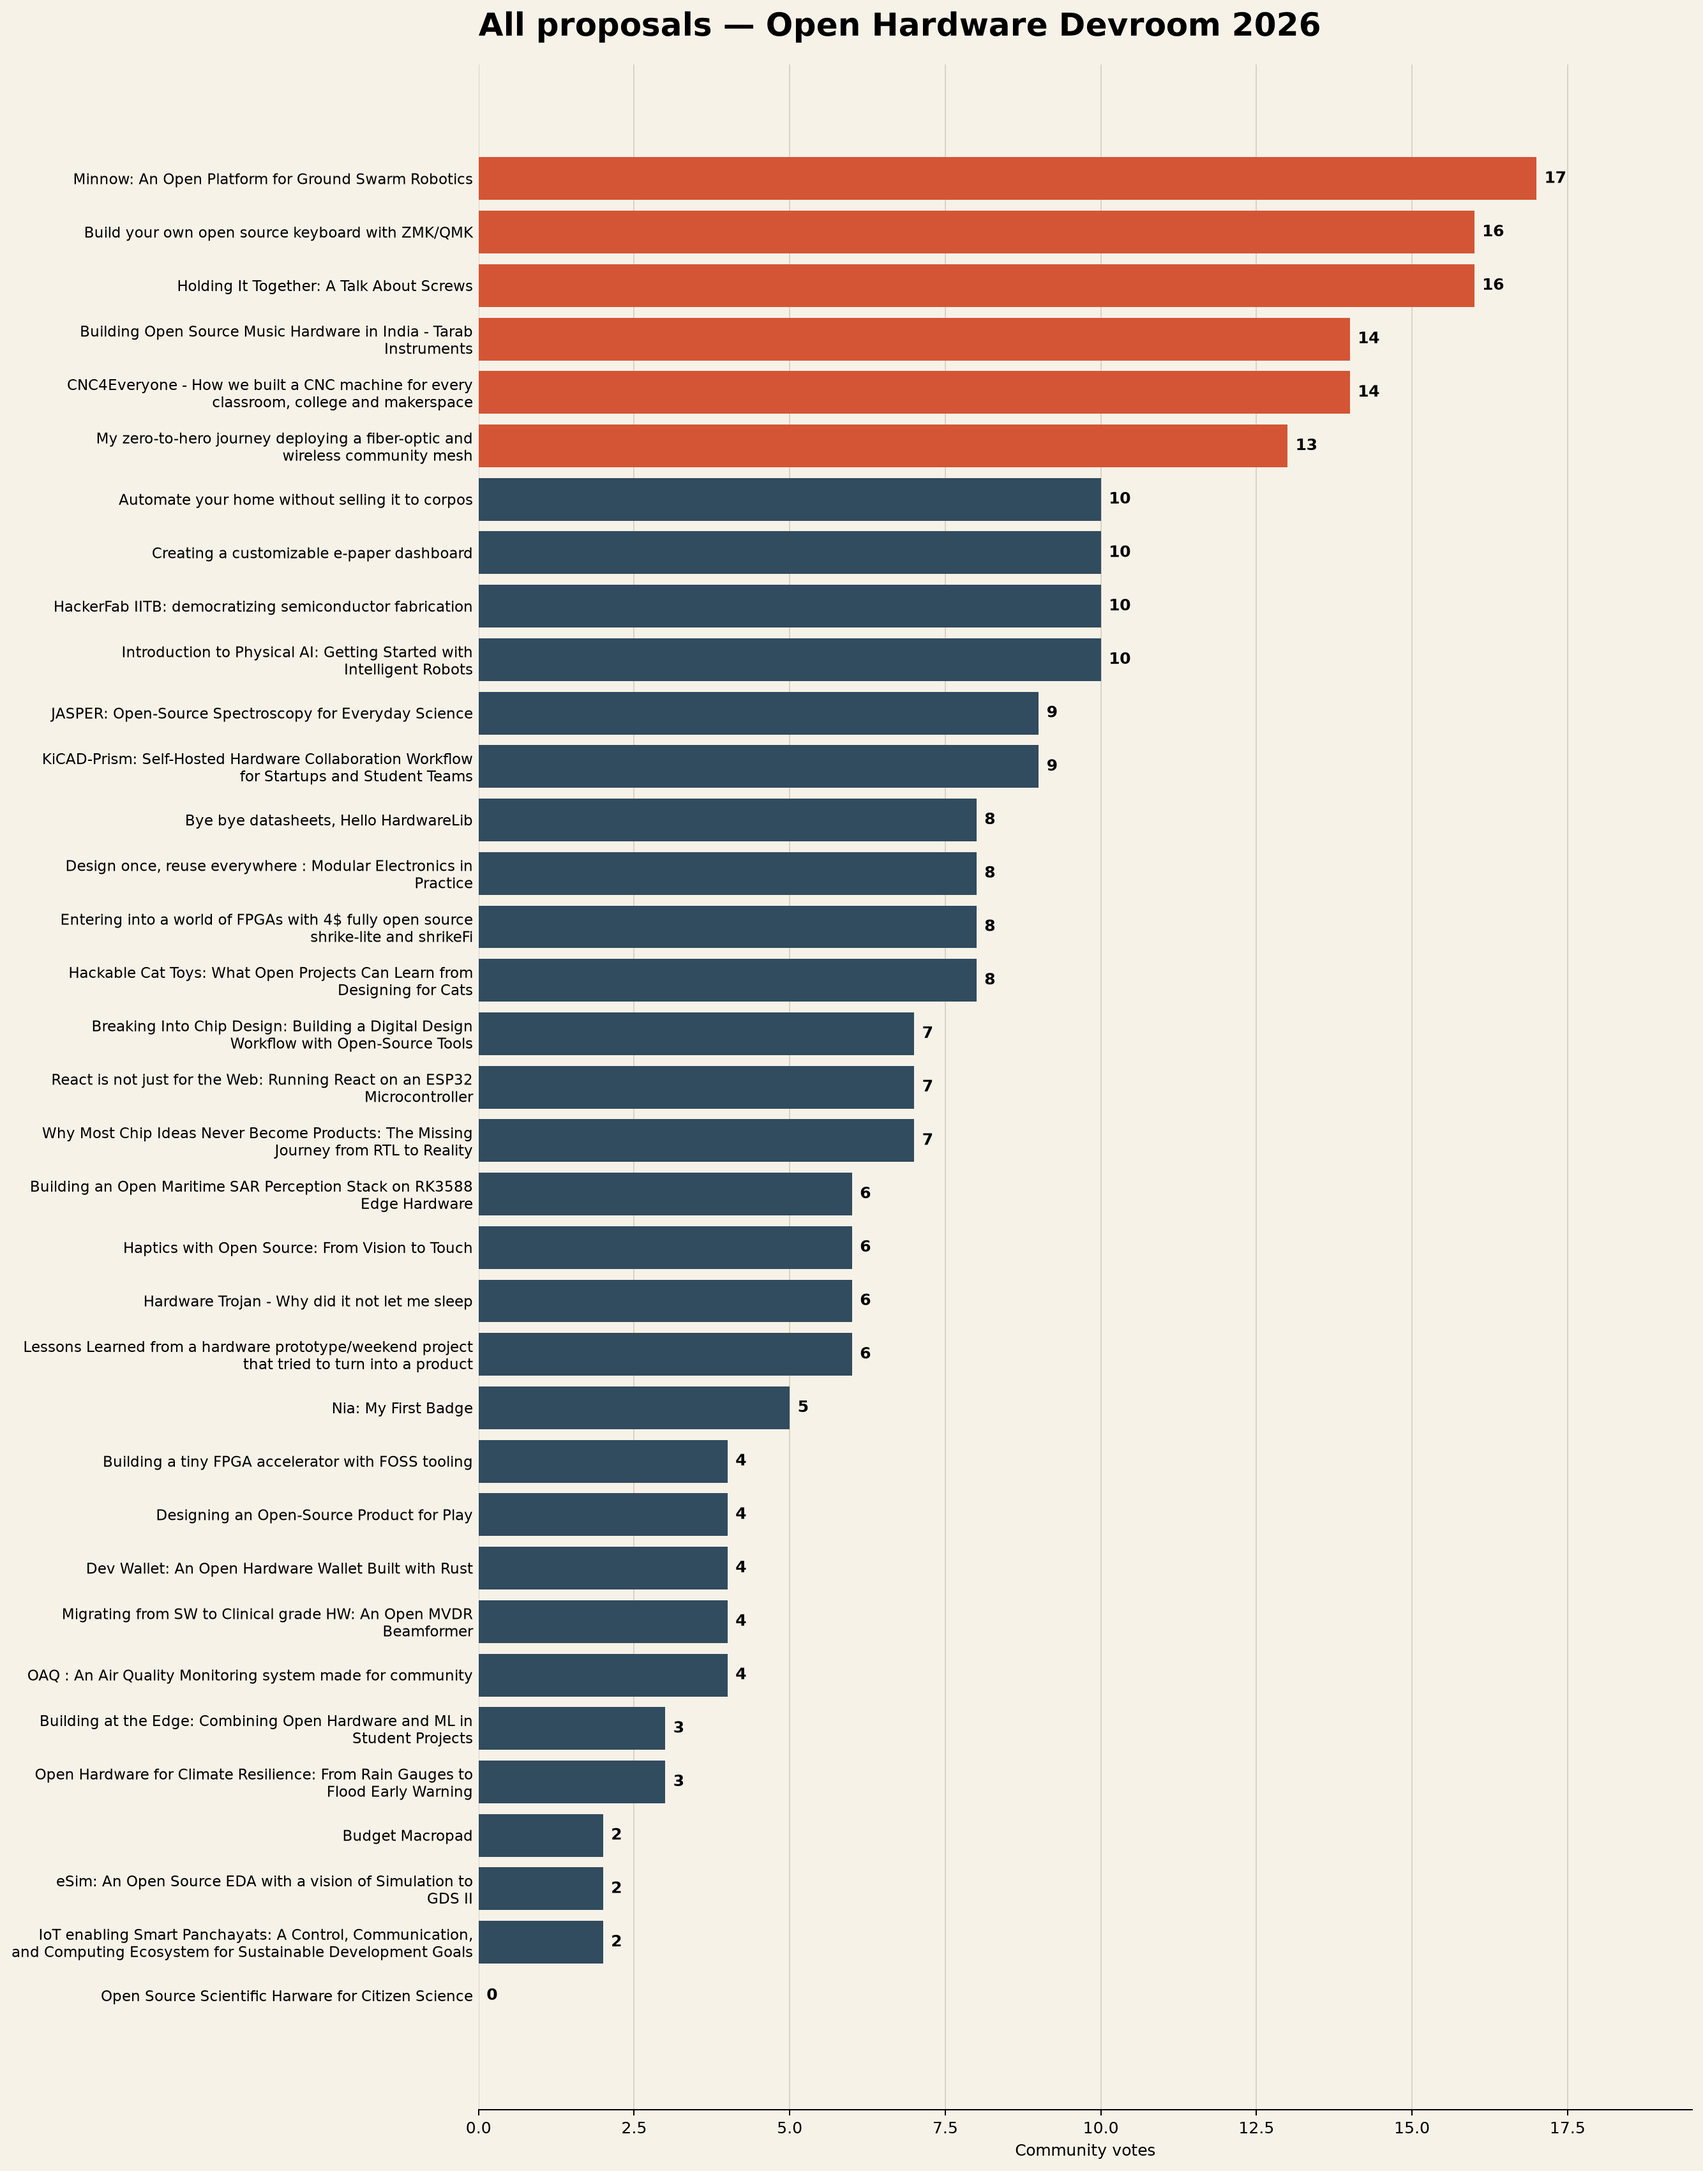
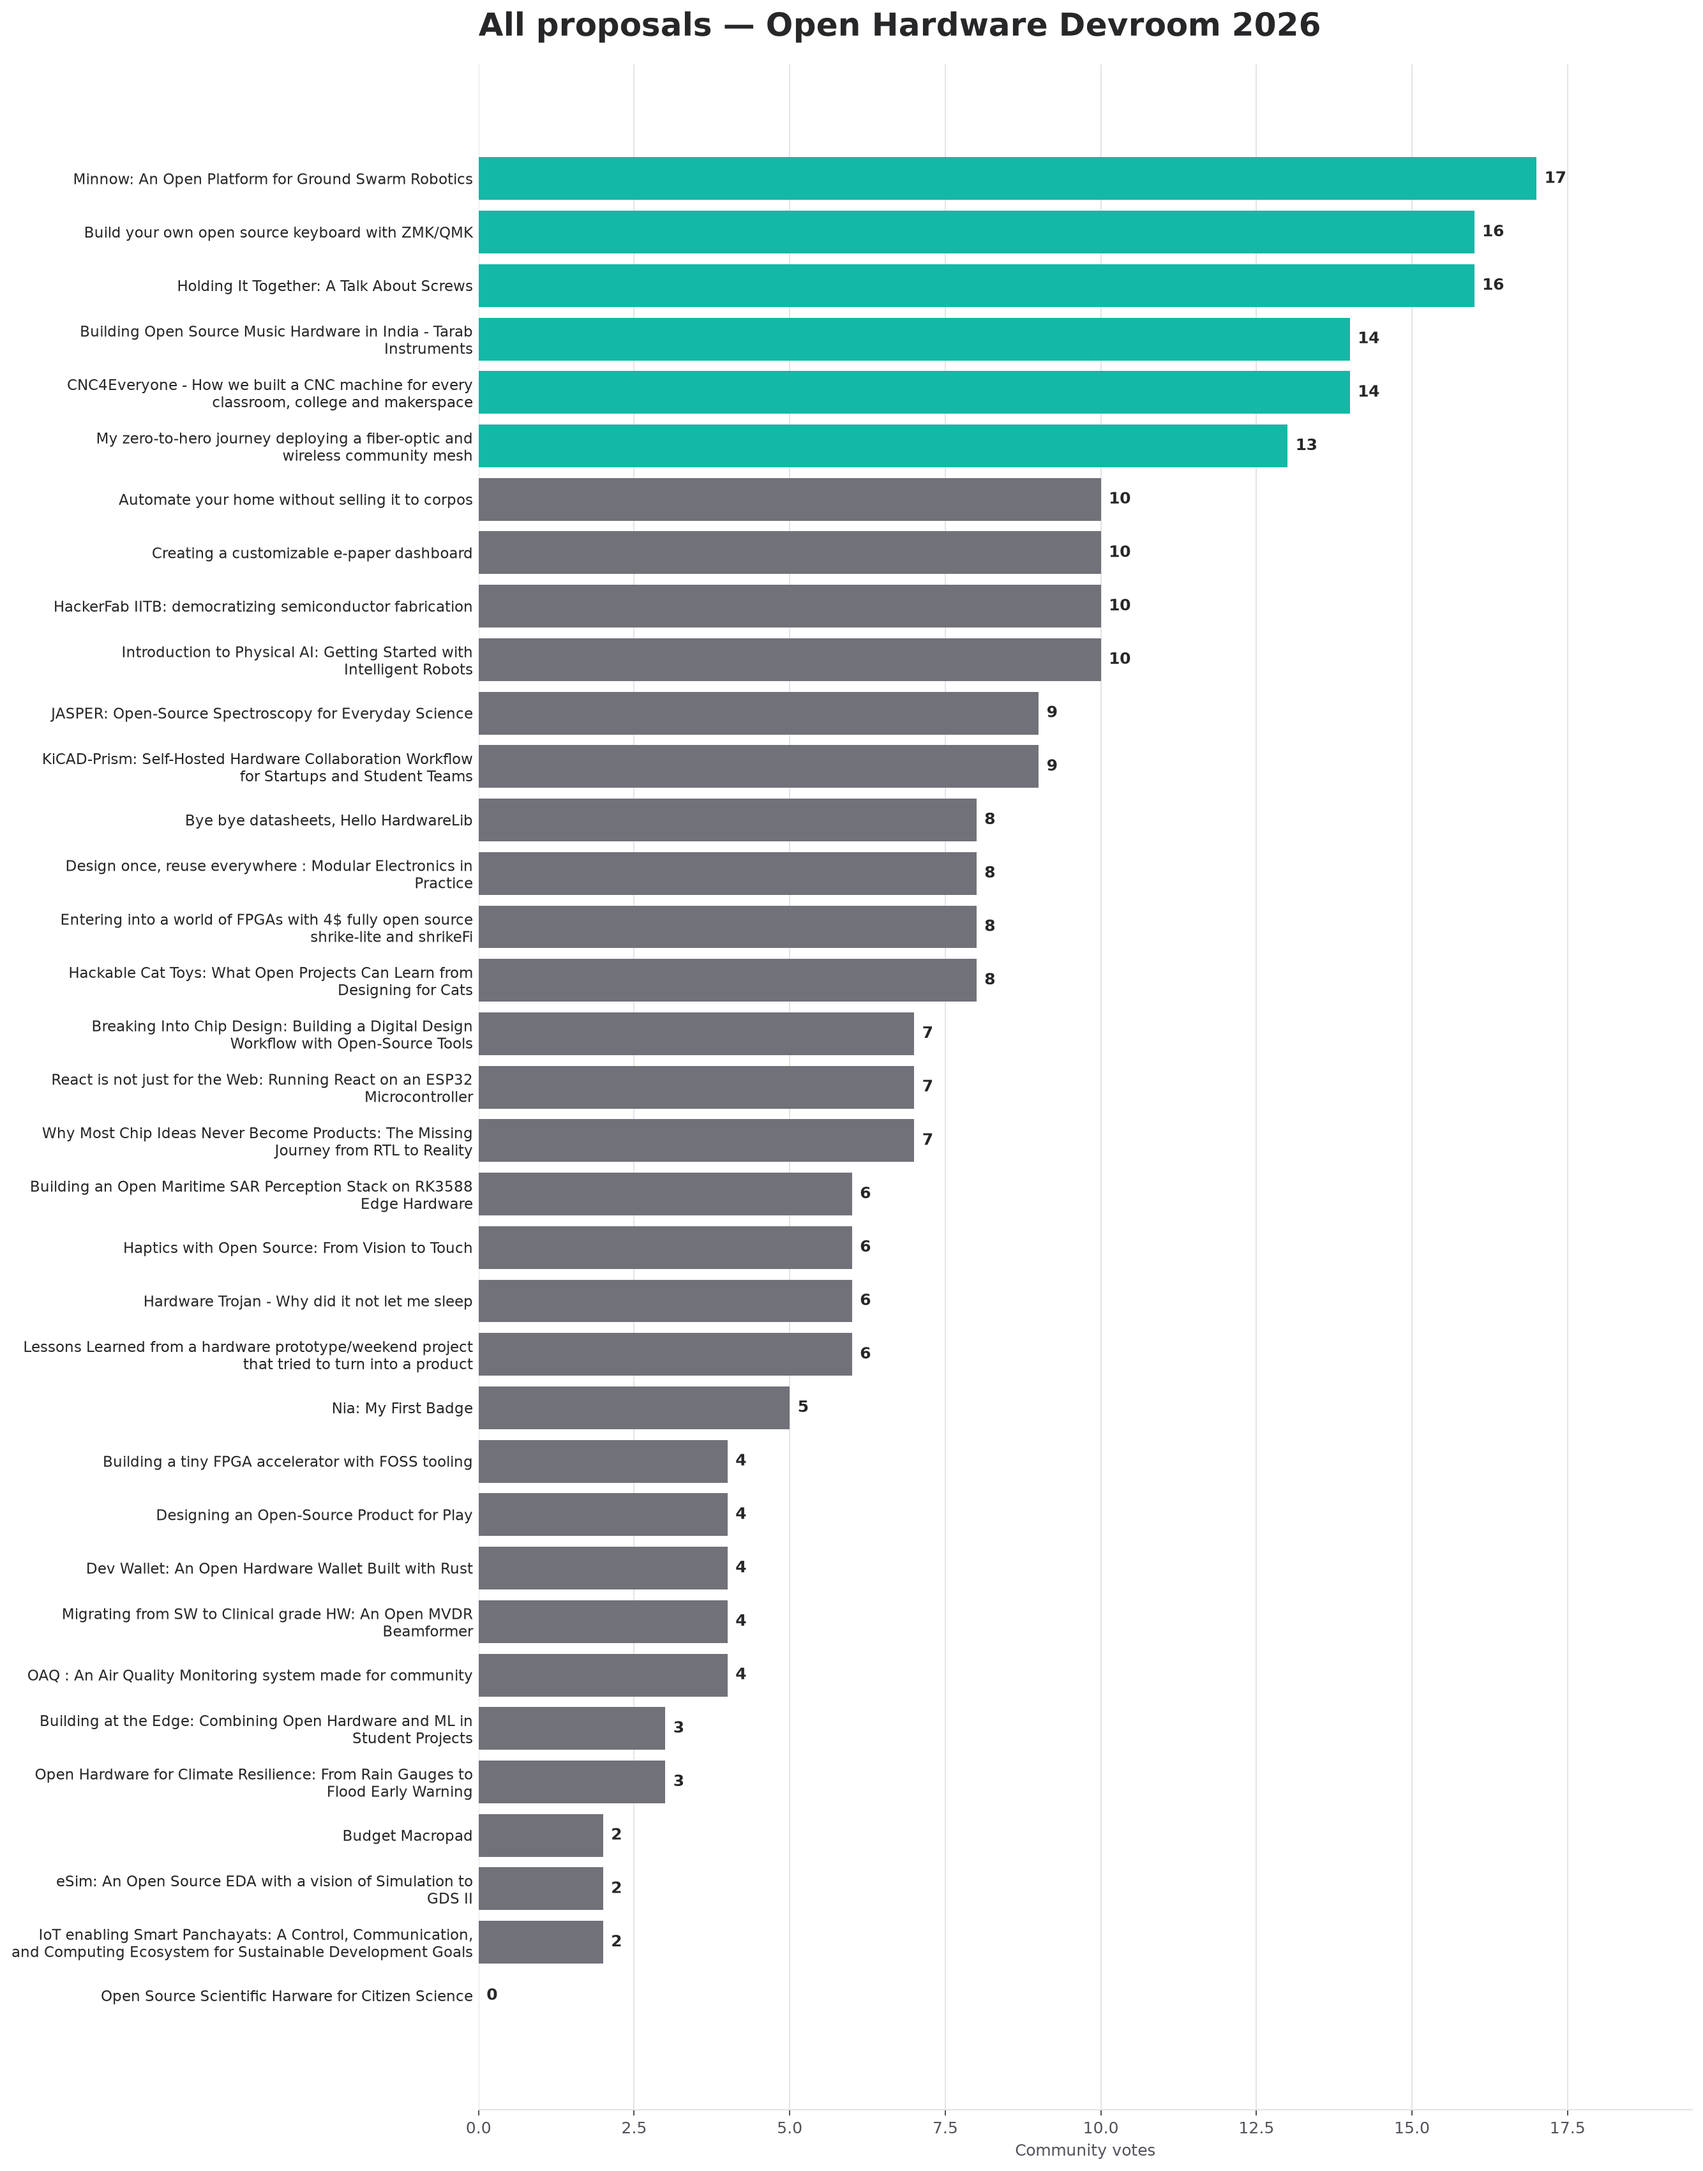
feat(analysis): match charts to blog theme

diff --git a/analysis/indiafoss-2026/analyze_results.py b/analysis/indiafoss-2026/analyze_results.py
@@ -160,24 +160,65 @@ def draw_results_chart(
     title: str,
     *,
     compact: bool,
+    dark: bool,
 ) -> None:
+    palette = (
+        {
+            "background": "#18181b",
+            "foreground": "#e4e4e7",
+            "muted": "#a1a1aa",
+            "grid": "#3f3f46",
+            "highlight": "#2dd4bf",
+            "bar": "#52525b",
+        }
+        if dark
+        else {
+            "background": "#ffffff",
+            "foreground": "#27272a",
+            "muted": "#52525b",
+            "grid": "#e4e4e7",
+            "highlight": "#14b8a6",
+            "bar": "#71717a",
+        }
+    )
     labels = [wrapped_title(talk["title"], 46 if compact else 58) for talk in talks]
     values = [talk["vote_count"] for talk in talks]
     height = max(7, len(talks) * (0.58 if compact else 0.48) + 2.2)
     fig, ax = plt.subplots(figsize=(15, height))
-    colors = ["#d45535" if talk["rank"] <= 6 else "#314b5f" for talk in talks]
+    colors = [palette["highlight"] if talk["rank"] <= 6 else palette["bar"] for talk in talks]
     bars = ax.barh(labels, values, color=colors)
     ax.invert_yaxis()
-    ax.set_title(title, loc="left", fontsize=20, fontweight="bold", pad=18)
-    ax.set_xlabel("Community votes")
+    ax.set_title(
+        title,
+        loc="left",
+        fontsize=20,
+        fontweight="bold",
+        pad=18,
+        color=palette["foreground"],
+    )
+    ax.set_xlabel("Community votes", color=palette["muted"])
     ax.set_xlim(0, max(values) + 2.5)
-    ax.xaxis.grid(True, color="#d9d3c7", linewidth=0.8)
+    ax.xaxis.grid(True, color=palette["grid"], linewidth=0.8)
     ax.set_axisbelow(True)
     ax.spines[["top", "right", "left"]].set_visible(False)
-    ax.tick_params(axis="y", length=0, labelsize=10 if compact else 9)
-    ax.bar_label(bars, labels=[str(value) for value in values], padding=5, fontsize=10, fontweight="bold")
-    fig.patch.set_facecolor("#f7f2e8")
-    ax.set_facecolor("#f7f2e8")
+    ax.spines["bottom"].set_color(palette["grid"])
+    ax.tick_params(
+        axis="y",
+        length=0,
+        labelsize=10 if compact else 9,
+        colors=palette["foreground"],
+    )
+    ax.tick_params(axis="x", colors=palette["muted"])
+    ax.bar_label(
+        bars,
+        labels=[str(value) for value in values],
+        padding=5,
+        fontsize=10,
+        fontweight="bold",
+        color=palette["foreground"],
+    )
+    fig.patch.set_facecolor(palette["background"])
+    ax.set_facecolor(palette["background"])
     fig.tight_layout()
     fig.savefig(output_path, dpi=180, bbox_inches="tight", facecolor=fig.get_facecolor())
     plt.close(fig)
@@ -199,11 +240,23 @@ def draw_terminal_output(report: str, output_path: Path, line_limit: int = 20) -
     ax.text(
         0.035,
         0.96,
-        "$ python3 analyze_results.py results-2026.json\n\n" + shown_report,
+        "$ python3 analyze_results.py results-2026.json",
         transform=ax.transAxes,
         va="top",
         ha="left",
-        color="#e6edf3",
+        color="#2dd4bf",
+        family="monospace",
+        fontsize=11.5,
+        linespacing=1.35,
+    )
+    ax.text(
+        0.035,
+        0.89,
+        shown_report,
+        transform=ax.transAxes,
+        va="top",
+        ha="left",
+        color="#e4e4e7",
         family="monospace",
         fontsize=11.5,
         linespacing=1.35,
@@ -243,12 +296,28 @@ def main(argv: list[str] | None = None) -> int:
         args.output_dir / "talk_votes_all_chart.png",
         f"All proposals — {conference['name']}",
         compact=False,
+        dark=False,
+    )
+    draw_results_chart(
+        talks,
+        args.output_dir / "talk_votes_all_chart_dark.png",
+        f"All proposals — {conference['name']}",
+        compact=False,
+        dark=True,
     )
     draw_results_chart(
         talks[: args.top],
         args.output_dir / "talk_votes_top_chart.png",
         f"Top {min(args.top, len(talks))} proposals — {conference['name']}",
         compact=True,
+        dark=False,
+    )
+    draw_results_chart(
+        talks[: args.top],
+        args.output_dir / "talk_votes_top_chart_dark.png",
+        f"Top {min(args.top, len(talks))} proposals — {conference['name']}",
+        compact=True,
+        dark=True,
     )
     draw_terminal_output(report, args.output_dir / "terminal_output.png")
     return 0

diff --git a/analysis/indiafoss-2026/test_analyze_results.py b/analysis/indiafoss-2026/test_analyze_results.py
@@ -68,7 +68,9 @@ class AnalyzeResultsCliTest(unittest.TestCase):
         )
         for filename in (
             "talk_votes_all_chart.png",
+            "talk_votes_all_chart_dark.png",
             "talk_votes_top_chart.png",
+            "talk_votes_top_chart_dark.png",
             "terminal_output.png",
         ):
             path = output_dir / filename

diff --git a/analysis/indiafoss-2026/README.md b/analysis/indiafoss-2026/README.md
@@ -19,8 +19,12 @@ The command validates the aggregate totals, prints the complete ranked result, a
 
 - `talk_vote_counts.csv`
 - `talk_votes_all_chart.png`
+- `talk_votes_all_chart_dark.png`
 - `talk_votes_top_chart.png`
+- `talk_votes_top_chart_dark.png`
 - `terminal_output.png`
+
+The standard chart files use the light `balubabu.dev` palette. The `_dark` variants use its dark-mode palette. Leading proposals are highlighted with the site's teal accent; the remaining proposals use neutral zinc tones.
 
 Talks with equal vote totals share a rank. The next rank follows competition-ranking rules, so two talks tied at rank 2 are followed by rank 4.
 
